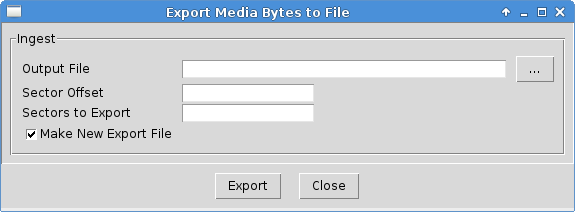
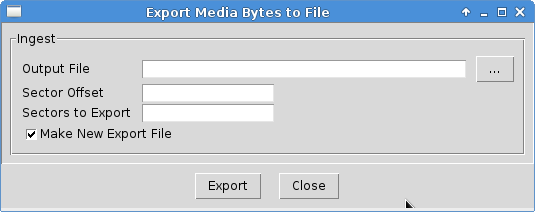
manage sector size for media annotations

diff --git a/doc/sectorscope_um/sectorscope_um.tex b/doc/sectorscope_um/sectorscope_um.tex
@@ -66,7 +66,7 @@ Here is a view of the \sscope Windows installer:\\
 
 \subsubsection{Installing on Linux or Mac}
 \begin{itemize}
-\item Download \sscope files from the \verb+.zip+ file under \url{http://digitalcorpora.org/downloads/sectorscope/}.\\
+\item Download \sscope files from the \verb+.zip+ file under \url{http://digitalcorpora.org/downloads/sectorscope/}.
 \item Unzip  the downloaded \verb+.zip+ file to extract \sscope.
 \item Copy these unzipped files to a directory where you can run them or set your \verb+PATH+ variable to find them. For example create directory \verb+local/bin+ in your home directory and copy the files there. Then add the following text to your \verb+$HOME/.bash+ file and then close and reopen your command window so that these tools can be found:
 
@@ -114,9 +114,9 @@ The path to the hashdb database must be configured:
 \begin{enumerate}
 \item Start a new case, \verb+File | New Case...+, fill in the Case Information fields, and click Next.
 \item Fill in Case Information and click Finish.
-\item For Add Data Source (1 of 3), put in a media image for \aut to process and click \verb+Next+.
-\item For Add Data Source (2 of 3), select checkboxes as desired, then click on \verb+SectorScope+ text to configure the path to your hashdb database to scan against. Currently a file chooser is not available, so please type in the full path, for example: \verb+C:\Users\me\my_hashdb.hdb+. Click \verb+Next+.
-\item For Add Data Source (3 of 3) click \verb+Finish+. When the \sscope module begins processing, \aut will display "NPS-SectorScope ..." as \bulk runs, which may take up to several hours. Unfortunately, \bulk progress is not currently indicated. For diagnostics: please see text in the generated \verb+bulk_extractor\report.xml+ file and in the generated log file and try running the \bulk scanner directly from \sscope.\\
+\item For \verb+Add Data Source+ (1 of 3), put in a media image for \aut to process and click \verb+Next+.
+\item For \verb+Add Data Source+ (2 of 3), select checkboxes as desired, then click on \verb+SectorScope+ text to configure the path to your hashdb database to scan against. Currently a file chooser is not available, so please type in the full path, for example: \verb+C:\Users\me\my_hashdb.hdb+. Click \verb+Next+.
+\item For \verb+Add Data Source+ (3 of 3) click \verb+Finish+. When the \sscope module begins processing, \aut will display "NPS-SectorScope ..." as \bulk runs, which may take up to several hours. Unfortunately, \bulk progress is not currently indicated. For diagnostics: please see text in the generated \verb+bulk_extractor\report.xml+ file and in the generated log file and try running the \bulk scanner directly from \sscope.\\
 
 Note: In the future, the \sscope \aut plug-in module may be updated to use \hdb instead of \bulk.
 \end{enumerate}
@@ -167,6 +167,7 @@ blacklist blocks in a block hash database. \sscope contains the interfaces neces
 The histogram graph shows a histogram of frequencies of matched hashes along a scanned media image. Controls in the user interface allow the user to pan and zoom the graph, highlight or ignore regions of the histogram, correlate matches with source files, and export sectors of the media image.
 
 \subsection{Media Image Annotations}
+\label{annotations}
 \sscope displays media annotations below the histogam bars. The following annotation types are currently supported:
 \begin{itemize}
 \item Disk partition information obtained by running the TSK \verb+mmls+ command.
@@ -175,10 +176,12 @@ The histogram graph shows a histogram of frequencies of matched hashes along a s
 
 Annotation entries define the annotation type, the offset and length of the content being annotated, and annotation text. New annotation types may be added in the future.\\
 
+\sscope has the ability to work with sector sizes other than 512 bytes. The TSK tools that \sscope use to produce annotation expect a sector size of 512 bytes. To prevent reporting incorrect units, \sscope will not open annotations when the sector size specified when opening a scan is not 512.\\
+
 The first time a scan file is opened by \sscope, \sscope prepares annotation content in a subdirectory next to the scan file named \verb+<scan file>.temp_annotations+. For example if the scan file is named \verb+scanfile.json+, annotations will be generated at \verb+scanfile.json.temp_annotations+. \sscope references information in this subdirectory in order to display annotation content. This subdirectory may be deleted. \sscope will generate it again if it is not there.
 
 \subsection{Source Files}
-\sscope shows a list of all sources in a hash database that have hashes in common with the media image scan. Filter and range selection controls affect the source list by removing sources or modifying the report of how much of a source is matched.
+\sscope shows a list of all sources in a hash database that have hashes in common with the media image scan. Changing filter and range selections affect the source list by removing sources or modifying how much of a source is matched.
 
 \section{\sscope User Interfaces}
 \subsection{Main Window}
@@ -206,7 +209,7 @@ The sector size for this media, typically 512 bytes. \sscope will display sector
 \subsubsection{Scan Statistics}
 Here is an example of scan statistics:\\
 \includegraphics[scale=.4]{screenshots/scan_statistics}\\
-Statistics for the opened scan include the path to the scan file, media image, and hash database, the image size, block size, and number of matched paths, hashes, and sources.
+Statistics for the opened scan include the path to the scan file, media image, and hash database, the image size, sector size, hash block size, and number of matched paths, hashes, and sources.
 
 \subsubsection{Ingest}
 Here is the \sscope Ingest window:\\
@@ -309,7 +312,7 @@ Open a window to enable or disable annotation categories. Here is an example win
   \item Disk partition annotations are obtained by running the TSK mmls command.
   \item File system sectors are obtained by running the TSK fsstat command.
   \end{itemize}
-New annotation types may be added in the future. \sscope accepts annotations in the form of \verb+type+, \verb+offset+, \verb+length+, and \verb+text+.
+Please see \textbf{\Autoref{annotations}} for information about media image annotations.
 \item \textbf{Toggle offset Units}\\
 Toggle the displayed offset units between sectors, decimal bytes, and hexadecimal bytes.
 \item \textbf{Toggle Auto-y-axis}\\
@@ -346,7 +349,9 @@ Cursor movement, click, drag, and wheel motions manipulate the graph view:
 \subsubsection{Media Image Annotation Graph}
 Here is an example view of a media image annotation graph:\\
 \includegraphics[scale=.4]{screenshots/annotations}\\
-Disk partitions and file system sectors are shown. They run over the top of each other because the histogram view is fully zoomed out and there are so many annotations present. To help preserve readability, only annotations that refer to a range that spans a whole histogram bar or more are shown in black, annotations that span less than one histogram bar in width are shown in gray, and annotations that span less than one tenth of a histogram bar are shown in light gray.
+Disk partitions and file system sectors are shown. They run over the top of each other because the histogram view is fully zoomed out and there are so many annotations present. To help preserve readability, only annotations that refer to a range that spans a whole histogram bar or more are shown in black, annotations that span less than one histogram bar in width are shown in gray, and annotations that span less than one tenth of a histogram bar are shown in light gray.\\
+
+Please see \textbf{\Autoref{annotations}} for information about media image annotations.
 
 \subsection{Source Table}
 Here is an example view of the source table:\\
@@ -435,7 +440,7 @@ to open the Open Scan File window which opens the scan data into \sscope.
   \item Leave the alternate hash database field blank since the path to the hash database defined in the scan file is correct.
   \item Use the default sector size to view sector offsets for 512-byte-sized sectors.
   \end{itemize}
-\item Click the \verb+Open+ button to load this scan dataset into \sscope. It can take 30 seconds or more to load large datasets. \sscope currently does not show progress during open. Close the window.
+\item Click the \verb+Open+ button to load this scan dataset into \sscope. It can take 30 seconds or more to load large scan datasets. \sscope currently does not show progress during open. Close the window.
 \item Manipulate \sscope controls to examine matched data.
 \end{enumerate}
 
@@ -444,7 +449,7 @@ to open the Open Scan File window which opens the scan data into \sscope.
 \item Obtain a populated hash database and a media image to scan. This example uses the database and media image described in the previous example.
 \item Start \aut and select \verb+Add Data Source+ if this window is not already open.
 \item In \verb+Add Data Source+ Step 1, select the path to media image \verb+jo-favorites-usb-2009-12-11.E01+ and click \verb+Next+.
-\item In Add Data Source Step 2, configure ingest modules, select the SectorScope ingest module and type in the full path to the \verb+kitty_blacklist.hdb+ block hash blacklist database (file chooser capability is not available yet). Deselect other modules as desired. Click \verb+Next+. Autopsy will remember these settings.
+\item In \verb+Add Data Source+ Step 2, configure ingest modules, select the SectorScope ingest module and type in the full path to the \verb+kitty_blacklist.hdb+ block hash blacklist database (file chooser capability is not available yet). Deselect other modules as desired. Click \verb+Next+. Autopsy will remember these settings.
 \item In \verb+Add Data Source+ Step 3, click finish.
 \item When processing completes, click on Reports in the tree on the left to show the Reports table. In the Reports table, click on the \verb+Block Hash Blacklist+ cell to open \sscope.
 \end{enumerate}

diff --git a/python/scan_statistics_window.py b/python/scan_statistics_window.py
@@ -45,9 +45,13 @@ class ScanStatisticsWindow():
         self._database_text = tkinter.Label(f, bg=colors.BACKGROUND)
         self._database_text.pack(side=tkinter.TOP, anchor="w")
 
-        # block size
-        self._block_size_text = tkinter.Label(f, bg=colors.BACKGROUND)
-        self._block_size_text .pack(side=tkinter.TOP, anchor="w")
+        # sector size
+        self._sector_size_text = tkinter.Label(f, bg=colors.BACKGROUND)
+        self._sector_size_text .pack(side=tkinter.TOP, anchor="w")
+
+        # hash block size
+        self._hash_block_size_text = tkinter.Label(f, bg=colors.BACKGROUND)
+        self._hash_block_size_text .pack(side=tkinter.TOP, anchor="w")
 
         # matched paths
         self._matched_paths_text = tkinter.Label(f, bg=colors.BACKGROUND)
@@ -88,7 +92,9 @@ class ScanStatisticsWindow():
                                       self._data_manager.sector_size))
             self._database_text["text"] = 'Database: %s' % \
                                self._data_manager.hashdb_dir
-            self._block_size_text["text"] = 'Block size: %s' % (
+            self._sector_size_text["text"] = 'Sector size: %s' % (
+                                      self._data_manager.sector_size)
+            self._hash_block_size_text["text"] = 'Hash block size: %s' % (
                                       self._data_manager.hash_block_size)
             self._matched_paths_text["text"] = 'Matched paths: %s' % (
                                       self._data_manager.len_forensic_paths)
@@ -103,7 +109,8 @@ class ScanStatisticsWindow():
             self._media_text["text"] = 'Media: Not opened'
             self._media_size_text["text"] = 'Media size: Not opened'
             self._database_text["text"] = 'Database: Not opened'
-            self._block_size_text["text"] = 'Block size: Not opened'
+            self._sector_size_text["text"] = 'Sector size: Not opened'
+            self._hash_block_size_text["text"] = 'Hash block size: Not opened'
             self._matched_paths_text["text"] = 'Matched paths: Not opened'
             self._matched_hashes_text["text"] = 'Matched hashes: Not opened'
             self._matched_sources_text["text"] = 'Matched sources: Not opened'

diff --git a/python/media_export_window.py b/python/media_export_window.py
@@ -31,6 +31,7 @@ class MediaExportWindow():
         # from input parameters
         self._master = master
         self._media_filename = data_manager.media_filename
+        self._sector_size = data_manager.sector_size
 
         # toplevel
         self._root_window = tkinter.Toplevel(master)
@@ -92,7 +93,8 @@ class MediaExportWindow():
                     text="Make New Export File",
                     variable = self._is_new_int_var,
                     bd=0, pady=4, highlightthickness=0)
-        self._is_new_checkbutton.grid(row=3, column=0)
+        self._is_new_checkbutton.grid(row=3, column=0,
+                                      columnspan=2, sticky=tkinter.W)
 
         return required_frame
 
@@ -126,7 +128,7 @@ class MediaExportWindow():
 
         # get byte offset
         try:
-            byte_offset = int(self._offset_entry.get()) * 512
+            byte_offset = int(self._offset_entry.get()) * self._sector_size
         except ValueError:
             ErrorWindow(self._master, "Export Error",
                         "Invalid sector offset value: '%s'." %
@@ -135,7 +137,7 @@ class MediaExportWindow():
 
         # get byte count
         try:
-            byte_count = int(self._count_entry.get()) * 512
+            byte_count = int(self._count_entry.get()) * self._sector_size
         except ValueError:
             ErrorWindow(self._master, "Export Error",
                         "Invalid sector count value: '%s'." %

diff --git a/python/data_reader.py b/python/data_reader.py
@@ -64,7 +64,8 @@ class DataReader():
         Args:
           scan_file(str): The block hash scan file containing the identified
                           blocks.
-          sector_size(int): The minimum resolution to zoom down to.
+          sector_size(int): Use this to calculate sector numbers and to know
+                          The minimum resolution to zoom down to.
           alternate_media_filename(str): An alternate path to read the media
                           image from, or blank to read and use the default.
  
@@ -92,12 +93,17 @@ class DataReader():
                                self._read_hash_scan_file(scan_file)
         t1 = ts("data_reader.read finished read identified_blocks", t0)
 
-        # read media image annotations
-
         # annotations_dir is scan_file + ".temp_annotations"
         annotations_dir = scan_file + ".temp_annotations"
 
         try:
+            # require 512-byte sector size for TSK tools
+            if sector_size != 512:
+                raise ValueError("Media annotations not read because sector "
+                     "size %s is not compatible.\nSector size must be 512 "
+                     "to be compatible with TSK annotations." % sector_size)
+
+            # read annotations
             annotation_types, annotations = read_annotations(
                                 media_filename, annotations_dir)
             annotation_load_status = ""

diff --git a/python/sectorscope.py b/python/sectorscope.py
@@ -113,7 +113,7 @@ if __name__=="__main__":
 
     # now open the scan_file
     if args.scan_file != "":
-        open_manager.open_scan_file(args.scan_file, args.sector_size,
+        open_manager.open_scan_file(args.scan_file, int(args.sector_size),
                   args.alternate_media_image, args.alternate_hash_database)
 
     # keep Tk alive
